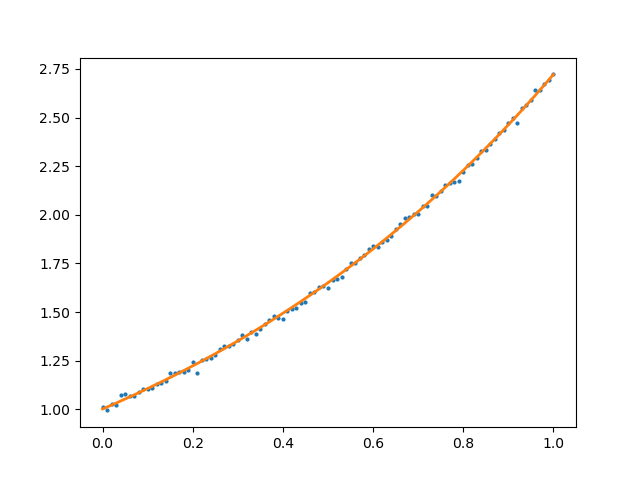
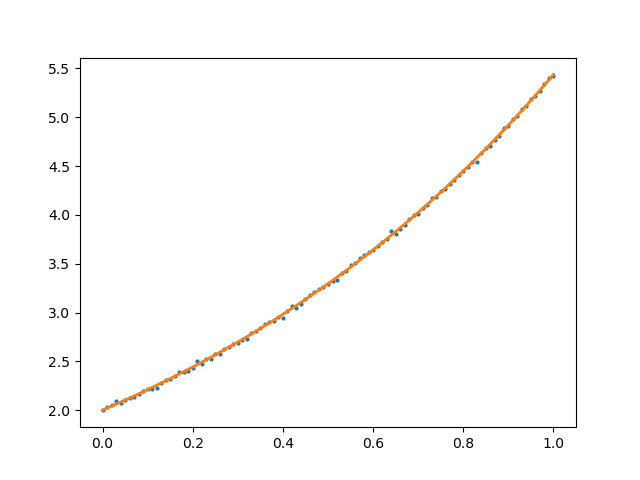
Extended the exponential function

diff --git a/analyze/fit_functions.py b/analyze/fit_functions.py
@@ -2,14 +2,16 @@ from scipy import optimize
 import numpy as np
 
 #The functions
-def exp(x, a, y0):
+def exp(x, k, a, y0):
     """
-    Calculate the exponential y0 + exp(a*x) of all elements x in the input array
+    Calculate the exponential y0 + k*exp(a*x) of all elements x in the input array
     
     Parameters
     ----------
     x: array_like
        Input values
+    k: float
+       multiplication factor before exponential
     a: float
        factor in exponential
     y0: float
@@ -18,9 +20,9 @@ def exp(x, a, y0):
     Returns
     -------
     out: ndarray or scalar
-         Output array, element-wise y0 + exp(a*x). This is a scalar if x is a scalar
+         Output array, element-wise y0 + k*exp(a*x). This is a scalar if x is a scalar
     """
-    return y0 + np.exp(a*x)
+    return y0 + k*np.exp(a*x)
 
 
 

diff --git a/analyze/test_fit.py b/analyze/test_fit.py
@@ -4,9 +4,10 @@ import matplotlib.pyplot as plt
 
 a = 1
 y0 = 0
+k = 2
 
 xdata = np.linspace(0,1,101)
-ydata = fit_functions.exp(xdata, a, y0) + 0.15*np.random.normal(0, .1, xdata.shape)
+ydata = fit_functions.exp(xdata, k, a, y0) + 0.15*np.random.normal(0, .1, xdata.shape)
 
 #find optimal parameters
 popt = fit_functions.fit_exp(xdata, ydata)
